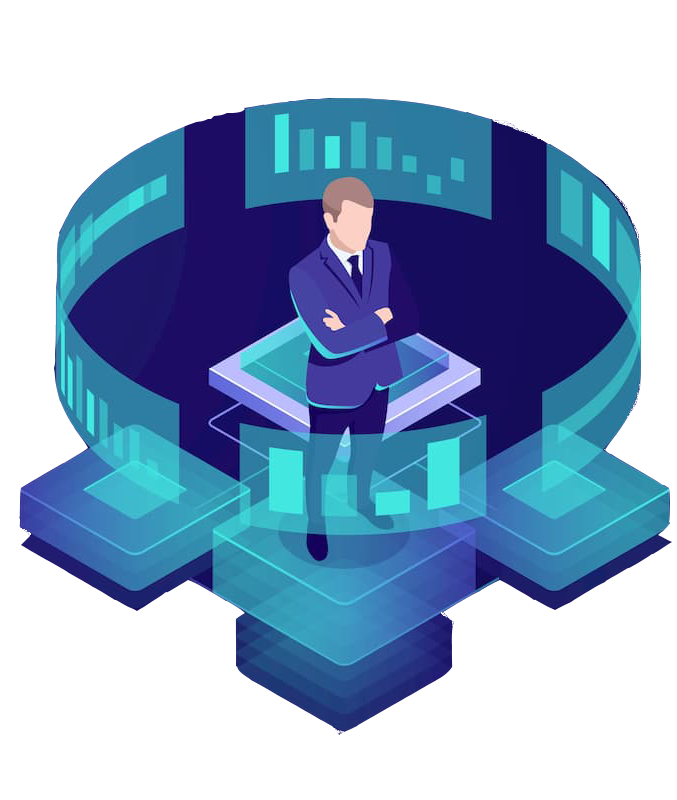
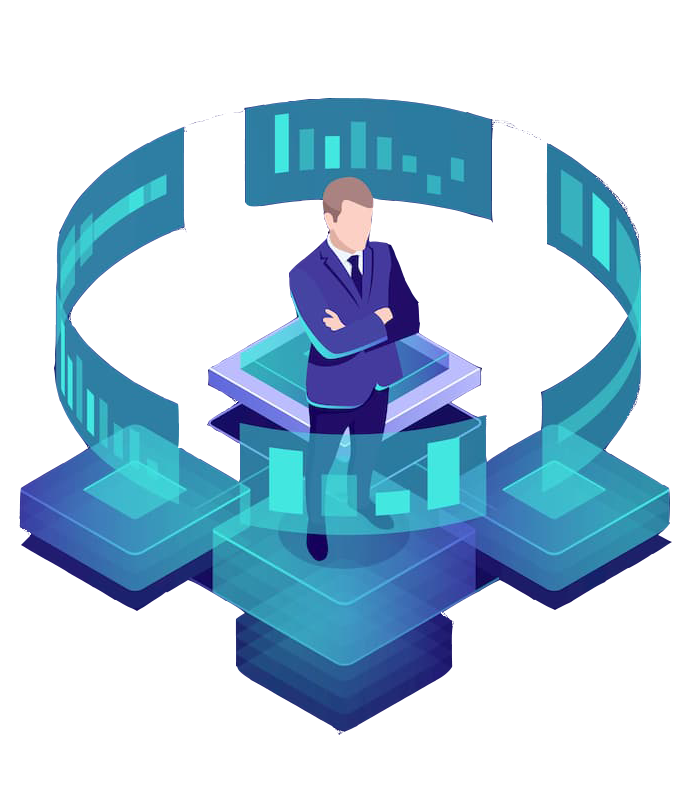
new img and typo fix

Changed region(s): [[0.0931, 0.125, 0.4963, 0.5938], [0.5273, 0.1562, 0.9306, 0.5938]]

diff --git a/index.html b/index.html
@@ -86,7 +86,7 @@
         <div class="col-xs-12 col-sm-12 col-md-12 col-lg-12 col-xl-12">
           <div class="section_contract_container">
               <h2 class="title_padding">
-                  Представляем первых кандидатов, прошедших 2 наших интервью, в течении 2 дней после запуска
+                  Представляем первых кандидатов, прошедших 2 наших интервью,<span class="orange_color"> в течение 2 дней после запуска</span>
                 </h2>
                 <article class="section_contract_list_wrapper">
                     <aside class="section_contract_main_img">
